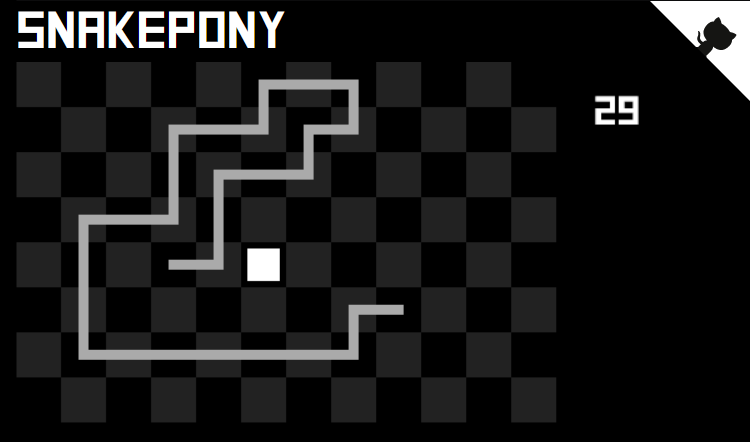
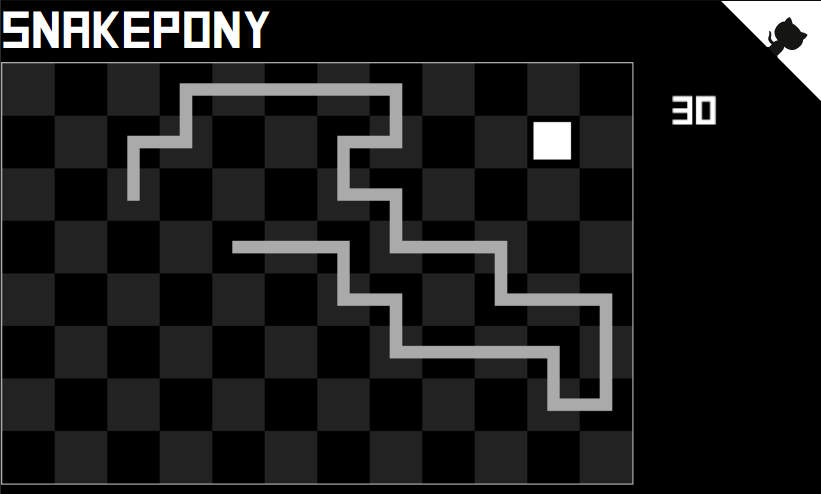
doc (README.md update)
Also add screenshots in asset/

Changed region(s): [[0.0, 0.0, 0.8893, 1.0], [0.8587, 0.0, 1.0, 0.2353]]

diff --git a/src/util/topology.ts b/src/util/topology.ts
@@ -49,17 +49,17 @@ export let topologyFromName = (name: string): Topology2D | undefined => {
    let topology: Topology2D | undefined = undefined
 
    if (false) {
-   } else if (name.match(/rect|square|normal|wall/)) {
+   } else if (name.match(/\b(rect|square|normal|wall)/)) {
       topology = { leftRight: 'wall', topBottom: 'wall' }
-   } else if (name.match(/torus/)) {
+   } else if (name.match(/\btorus/)) {
       topology = { leftRight: 'loop', topBottom: 'loop' }
-   } else if (name.match(/real|projective|plan/)) {
+   } else if (name.match(/\b(real|projective|plan)/)) {
       topology = { leftRight: 'crossed', topBottom: 'crossed' }
-   } else if (name.match(/klein|bottle/)) {
+   } else if (name.match(/\b(klein|bottle)/)) {
       topology = { leftRight: 'loop', topBottom: 'crossed' }
-   } else if (name.match(/m..?bius|strip/)) {
+   } else if (name.match(/\b(m..?bius|strip)/)) {
       topology = { leftRight: 'wall', topBottom: 'crossed' }
-   } else if (name.match(/ribbon|loop/)) {
+   } else if (name.match(/\b(ribbon|loop)/)) {
       topology = { leftRight: 'wall', topBottom: 'loop' }
    }
 
@@ -67,7 +67,7 @@ export let topologyFromName = (name: string): Topology2D | undefined => {
       return
    }
 
-   if (name.match(/long/)) {
+   if (name.match(/\b(long|alt)/)) {
       topology = {
          leftRight: topology.topBottom,
          topBottom: topology.leftRight,

diff --git a/README.md b/README.md
@@ -10,7 +10,10 @@ _if on computer, you can move using the mouse too_
 
 ## Size variations
 
-Passing `?size=<number>` controls the height of the game. The default is 8.
+[![](asset/screenshot/snakepony-screenshot-big-v1.png)](https://snakepony.now.sh/?size=16)
+
+Passing `?size=<number>` controls the vertical number of squares of the grid. The default is 8.
+The horizontal number of squares is computed to be about 50% more than vertical.
 
 - [SnakePony, very small](https://snakepony.now.sh/?size=4)
 - [SnakePony, small](https://snakepony.now.sh/?size=6)
@@ -18,6 +21,31 @@ Passing `?size=<number>` controls the height of the game. The default is 8.
 - [SnakePony, big](https://snakepony.now.sh/?size=12)
 - [SnakePony, bigger](https://snakepony.now.sh/?size=16)
 - [SnakePony, too big](https://snakepony.now.sh/?size=20)
+
+## Border behavior: topology variants
+
+[![](asset/screenshot/snakepony-screenshot-projective-v1.png)](https://snakepony.now.sh/?topology=projective)
+
+Passing `?topology=<name>` controls how the border reacts to the player hitting it.
+
+- [SnakePony, ribbon (wall + loop)](https://snakepony.now.sh/?topology=ribbon)
+  - [SnakePony, alternative ribbon](https://snakepony.now.sh/?topology=long-ribbon)
+- [SnakePony, mobius strip (wall + crossed)](https://snakepony.now.sh/?topology=mobius)
+  - [SnakePony, alternative mobius strip](https://snakepony.now.sh/?topology=long-mobius)
+- [SnakePony, klein bottle (looping+crossed)](https://snakepony.now.sh/?topology=klein)
+  - [SnakePony, alternative klein bottle (looping+crossed)](https://snakepony.now.sh/?topology=long-klein)
+- [SnakePony, torus (all borders looping)](https://snakepony.now.sh/?topology=torus)
+- [SnakePony, real projective plan (crossed+crossed)](https://snakepony.now.sh/?topology=projective)
+- [SnakePony, normal (4 wall borders)](https://snakepony.now.sh/?topology=rectangle)
+
+Note: the topology argument can be combined with the size argument. Example:
+
+https://snakepony.now.sh/?size=4?topology=torus
+
+## Challenge mode
+
+If you want to challenge yourself a bit, you can add `?showMoveCount` in the URL. It will show the number of moves you made since the beginning of the game.
+[(Example link)](https://snakepony.now.sh/?size=4?showMoveCount)
 
 ## Contributing
 
